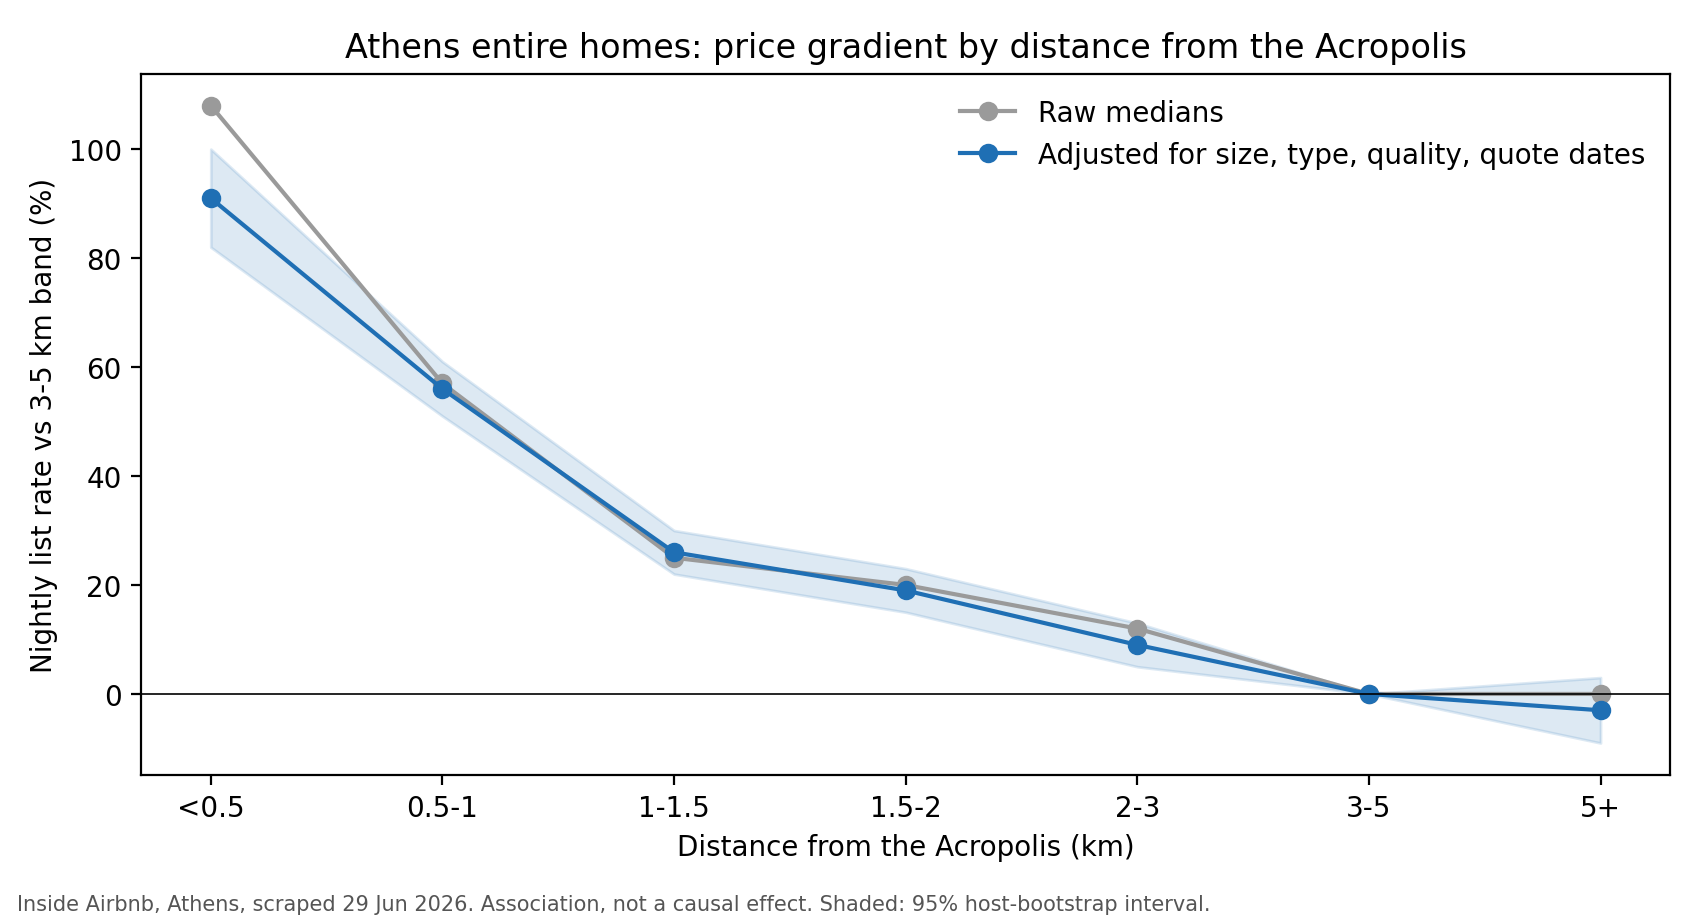
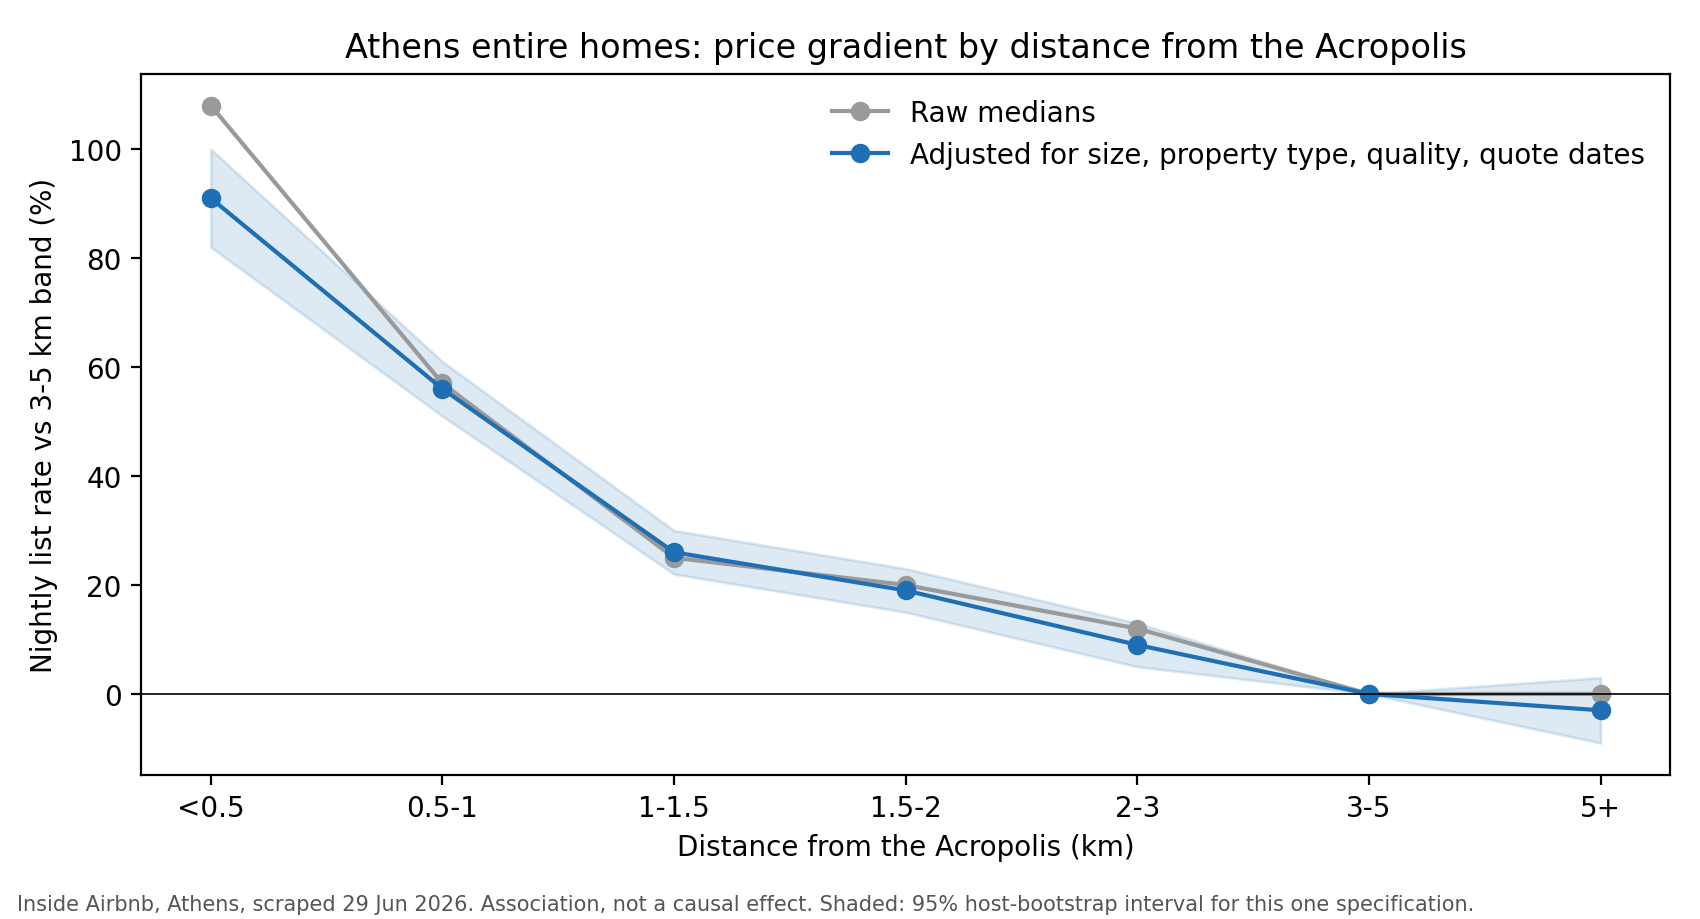
Tighten claims: discount labels, property type, robustness, unrounded gaps
- Describe 11.7% as explicit discounts (mostly 'Special offer'), not stay-length
- Call price_list the pre-discount nightly quote rate, not BAR
- Add grouped property_type to RF and LightGBM, with per-fold ablation
- Break down cheap-listing errors by property type
- Refit Acropolis gradient under 7 control/cutoff variants (+77% to +108%)
- Compute underpricing thresholds on unrounded predictions

Claude-Session: https://claude.ai/code/session_01CgMUjcLCFASMco3JiKvxim

Changed region(s): [[0.4988, 0.0914, 0.9665, 0.1828], [0.7171, 0.975, 0.8729, 1.0]]

diff --git a/README.md b/README.md
@@ -6,17 +6,17 @@ Predicting nightly rates for about 14,000 Athens Airbnb listings, and describing
 
 ## Key findings
 
-**A steep price gradient around the Acropolis.** Entire homes within 500 m list at about **91% more** per night than comparable homes 3 to 5 km away (95% interval: 82% to 100%). That holds after adjusting for size, property type, review scores, host behaviour and quote dates. Most of the gradient is gone by 1.5 km (+26%), and past 3 km distance barely matters.
+**A steep price gradient around the Acropolis.** Entire homes within 500 m have a pre-discount nightly rate roughly **80% to 110% higher** than homes 3 to 5 km away. In the main specification, which adjusts for size, property type, review scores, host behaviour and quote dates, the estimate is +91%. Most of the gradient is gone by 1.5 km (about +25%), and past 3 km distance barely matters.
 
-The raw medians (EUR 173 vs EUR 83, +108%) overstate it a little, because homes near the Acropolis are also slightly bigger and better reviewed. The adjusted curve is still an **association, not a causal effect**: views, renovation and amenities are not in the data and may differ too.
+How sure is that number? The 82% to 100% band on the chart only covers sampling noise *within that one regression*. Refitting under other controls and price cutoffs gives **+77% to +108%**. The estimate is most sensitive to the top price cutoff: dropping the most expensive 5% of homes lowers it to +77%, so luxury homes near the Acropolis drive part of it. This is an **association, not a causal effect**. Views, renovation and amenities are not fully captured, although a rough amenities count barely moves the estimate (+92%).
 
-**The model beats the baseline by about 30%, but not evenly.** Errors are smallest for mid-range homes (EUR 60 to 150, around 20%) and much larger at the top end (EUR 250+, around 37%).
+**The model beats the baseline by about 30%, but not evenly.** Errors are smallest for mid-range homes (EUR 60 to 150, around 20%) and much larger at the extremes. Below EUR 60 the model over-predicts 97% of entire rental units and condos. Property type does not explain it, so something outside the data (placeholder prices, long-stay or local arrangements) is likely at play.
 
 ## Two price targets
 
-Each listing has one Airbnb quote, and the quotes cover different check-in dates (29 June 2026 to June 2027, though 92% fall in June and July 2026) and different stay lengths. The quoted per-night price can also include a length-of-stay discount (11.7% of listings) or taxes. So two targets are modelled side by side:
+Each listing has one Airbnb quote, and the quotes cover different check-in dates (29 June 2026 to June 2027, though 92% fall in June and July 2026) and different stay lengths. The quoted per-night price can also include taxes, or an explicit discount (11.7% of listings). Most discounts are labelled "Special offer" (1,313 line items). Only 305 are stay-length discounts (long, weekly or monthly), and 98 are early-booking discounts. So two targets are modelled side by side:
 
-- `price_list`: the host's nightly rate before discounts, taxes and fees (quote subtotal divided by nights). Closest to a hotel's BAR. **Main target.**
+- `price_list`: the **pre-discount nightly quote rate**, i.e. the quote subtotal divided by nights, before explicit discounts, taxes and fees. **Main target.**
 - `price_quoted`: the per-night price Airbnb showed. Differs from the list rate for 20% of listings.
 
 Quote conditions (lead time, quoted nights, check-in month) are model features, so the model can tell a 1-night quote for tomorrow from a 3-night quote next spring.
@@ -28,38 +28,40 @@ Quote conditions (lead time, quoted nights, check-in month) are model features, 
 | Model | `price_list` | `price_quoted` |
 |---|---|---|
 | Baseline: median for same neighbourhood and room type | 50.53 ± 3.39 | 49.20 ± 3.19 |
-| Random Forest | 35.66 ± 2.52 | 34.79 ± 2.31 |
-| LightGBM | 35.53 ± 2.49 | 34.70 ± 2.31 |
+| Random Forest | 35.55 ± 2.50 | 34.77 ± 2.28 |
+| LightGBM | 35.49 ± 2.55 | 34.62 ± 2.39 |
 
-Random Forest and LightGBM are **tied**: per fold, LightGBM is between EUR 0.42 better and EUR 0.04 worse. The two targets are also within fold-to-fold noise of each other.
+Random Forest and LightGBM are **tied**: per fold, LightGBM is between EUR 0.70 better and EUR 0.34 worse on `price_list`. The two targets are also within fold-to-fold noise of each other.
+
+Adding `property_type` (42 types, rare ones grouped) helps only slightly: Random Forest improves in every fold, by EUR 0.04 to 0.19. LightGBM changes by between -0.32 and +0.15.
 
 Error by price band (`price_list`, LightGBM, out-of-fold):
 
 | List rate (EUR) | Listings | MAE (EUR) | Mean % error |
 |---|---|---|---|
-| under 60 | 1,223 | 22.7 | 51% |
-| 60 to 100 | 5,078 | 18.3 | 23% |
-| 100 to 150 | 4,241 | 23.7 | 20% |
+| under 60 | 1,223 | 22.5 | 50% |
+| 60 to 100 | 5,078 | 18.1 | 23% |
+| 100 to 150 | 4,241 | 24.1 | 20% |
 | 150 to 250 | 2,350 | 49.0 | 26% |
-| 250+ | 1,106 | 145.6 | 37% |
+| 250+ | 1,106 | 144.6 | 37% |
 
-**Possibly underpriced homes.** Among 8,245 entire homes with 10+ reviews, 264 (3.2%) list at least 40% below the model's prediction, measured as `(predicted - asking) / predicted`. That means "well below similar listings", not proven lost revenue.
+**Possibly underpriced homes.** Among 8,245 entire homes with 10+ reviews, 279 (3.4%) list at least 40% below the model's prediction, measured as `(predicted - asking) / predicted`. That means "well below similar listings", not proven lost revenue.
 
 ## Approach
 
 - **Data:** Inside Airbnb detailed listings for Athens, scraped 29 June 2026. Prices in EUR.
-- **Features:** size (guests, bedrooms, bathrooms), location (distance to the Acropolis and Syntagma, neighbourhood), quality (review scores, superhost), host behaviour (portfolio size, availability, minimum nights) and quote conditions (lead time, nights, check-in month).
+- **Features:** property type, size (guests, bedrooms, bathrooms), location (distance to the Acropolis and Syntagma, neighbourhood), quality (review scores, superhost), host behaviour (portfolio size, availability, minimum nights) and quote conditions (lead time, nights, check-in month).
 - **No leakage:** `price_quote_price_per_night`, `price_quote_total_price`, `price_quote_raw` and `estimated_revenue_l365d` are the price or calculated from it, so they are never features. Neither is the discount flag.
 - **Log target:** errors become relative instead of being dominated by luxury listings.
 - **Grouped by host:** multi-listing hosts often reuse prices, so every host sits entirely inside one fold.
-- **Adjusted gradient:** log-linear regression on entire homes with distance bands plus controls. Intervals from 300 host-level bootstrap resamples.
+- **Adjusted gradient:** log-linear regression on entire homes with distance bands plus controls. Intervals from 300 host-level bootstrap resamples. Robustness: refit with no controls, size only, the main controls, main plus amenities count, and three different price cutoffs.
 
 ## Limitations
 
 - **Asking prices, not paid prices.** The model learns what similar hosts ask, not what guests accept.
 - **One quote per listing.** Mostly near-term summer dates, so this is not a seasonal model.
-- **Observed controls only.** The adjusted gradient cannot rule out unmeasured differences such as views or renovation.
-- **Weak at the extremes.** Mean error is 37% above EUR 250 and 51% below EUR 60.
+- **Observed controls only.** The adjusted gradient cannot rule out unmeasured differences such as views or renovation, and the bootstrap interval does not cover the choice of specification.
+- **Weak at the extremes.** Mean error is 37% above EUR 250 and 50% below EUR 60, where the model systematically over-predicts.
 - 339 of 14,337 listings removed: 192 missing a price or quote, 147 outside EUR 20 to 732 (99th percentile of the list rate).
 - `instant_bookable` is blank for every listing in this scrape.
 
